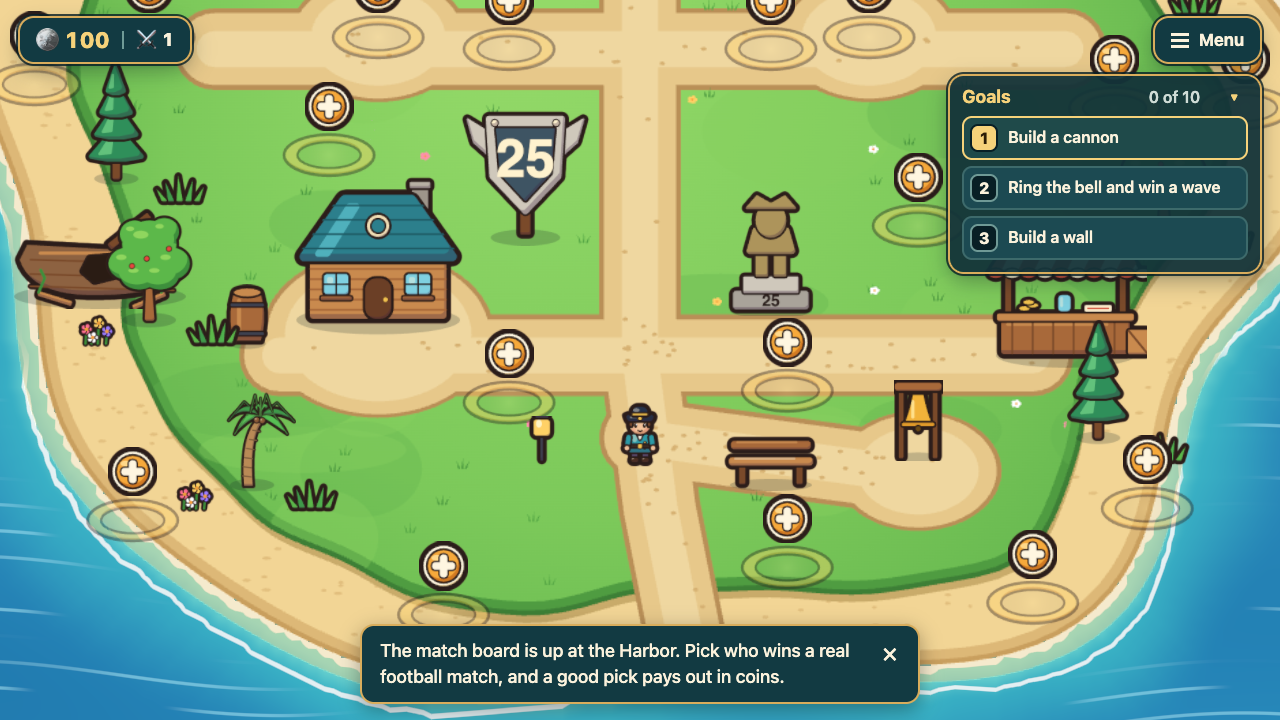
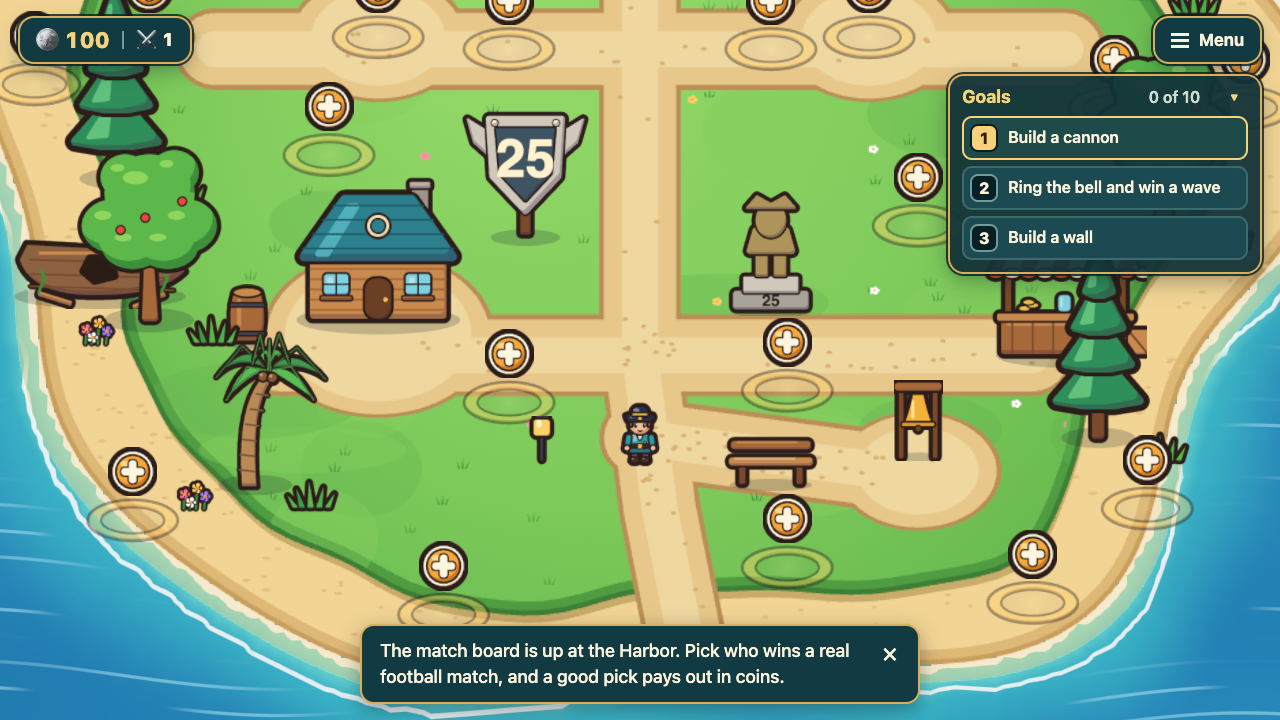
fix: grow T5 trees from their original size

diff --git a/frontend/tests/island/decorations.test.js b/frontend/tests/island/decorations.test.js
@@ -5,7 +5,7 @@ import {waveRank} from '../../src/art/milestones.js';
 
 const house = id => ({id, kind: 'house', built: true});
 it('shows the best beaten wave, and unlocks the statue exactly at 25', () => {
-  expect(decorationState()).toEqual({wave: 0, statue: false, treeScale: .6});
+  expect(decorationState()).toEqual({wave: 0, statue: false, treeScale: 1});
   expect(decorationState({wave: 24})).toMatchObject({wave: 24, statue: false});
   expect(decorationState({wave: 25})).toMatchObject({wave: 25, statue: true});
   expect(decorationState({wave: 100})).toMatchObject({wave: 100, statue: true});
@@ -14,18 +14,18 @@ it('does not confuse a lost attempt or next wave with the saved record', () => {
   expect(decorationState({wave: 12, nextWave: 10, survived: false})).toMatchObject({wave: 12});
 });
 it('uses three tree sizes, and shrinks again after a house is removed', () => {
-  expect(decorationState(null, [house('house_1')]).treeScale).toBe(.8);
-  expect(decorationState(null, [house('house_1'), house('house_2')]).treeScale).toBe(1);
-  expect(decorationState(null, [{...house('house_1'), built: false}, house('house_2')]).treeScale).toBe(.8);
-  expect(decorationState(null, [{kind: 'cannon', built: true}]).treeScale).toBe(.6);
+  expect(decorationState(null, [house('house_1')]).treeScale).toBe(1.1);
+  expect(decorationState(null, [house('house_1'), house('house_2')]).treeScale).toBe(1.2);
+  expect(decorationState(null, [{...house('house_1'), built: false}, house('house_2')]).treeScale).toBe(1.1);
+  expect(decorationState(null, [{kind: 'cannon', built: true}]).treeScale).toBe(1);
 });
 it('resets from a developed island to a new island without keeping another island’s milestones', () => {
   decorationState({wave: 30}, [house('house_1'), house('house_2')]);
-  expect(decorationState({wave: 1}, [])).toEqual({wave: 1, statue: false, treeScale: .6});
+  expect(decorationState({wave: 1}, [])).toEqual({wave: 1, statue: false, treeScale: 1});
 });
 it('treats missing or malformed records as zero and ignores duplicate house ids', () => {
   for (const wave of [-1, 1.5, '25', NaN, Infinity]) expect(decorationState({wave}).wave).toBe(0);
-  expect(decorationState(null, [house('house_1'), house('house_1')]).treeScale).toBe(.8);
+  expect(decorationState(null, [house('house_1'), house('house_1')]).treeScale).toBe(1.1);
 });
 
 it('changes the badge rank at every ten-wave milestone, with a separate unranked start', () => {

diff --git a/frontend/tests/island/decorations-dom.test.js b/frontend/tests/island/decorations-dom.test.js
@@ -57,7 +57,7 @@ it('updates the viewed island, reuses unchanged art and releases its own resourc
     return {first, reused, replaced, milestone, fresh, hidden, freed, restored: tree.scale.x,
       children: place.group.children.length, colliders: place.colliders};
   });
-  expect(result).toEqual({first: {wave: 24, statue: false, tree: 1.6}, reused: true, replaced: 1,
-    milestone: {wave: 25, statue: true, tree: 2}, fresh: {wave: 1, statue: false, tree: 1.2},
+  expect(result).toEqual({first: {wave: 24, statue: false, tree: 2.2}, reused: true, replaced: 1,
+    milestone: {wave: 25, statue: true, tree: 2.4}, fresh: {wave: 1, statue: false, tree: 2},
     hidden: true, freed: 7, restored: 2, children: 1, colliders: [{x: 1, z: 2, radius: .48}]});
 });

diff --git a/frontend/src/island/decorations.js b/frontend/src/island/decorations.js
@@ -8,7 +8,7 @@ export function decorationState(campaign = null, spots = []) {
   const wave = Number.isSafeInteger(campaign?.wave) && campaign.wave >= 0 ? campaign.wave : 0;
   const houses = new Set(spots.filter(spot => spot?.built === true && spot.kind === 'house'
     && ['house_1', 'house_2'].includes(spot.id)).map(spot => spot.id));
-  return {wave, statue: wave >= 25, treeScale: [.6, .8, 1][houses.size]};
+  return {wave, statue: wave >= 25, treeScale: [1, 1.1, 1.2][houses.size]};
 }
 
 function milestone(root, name, width, height, x, z) {

diff --git a/docs/handoff/T5-island-decoration.md b/docs/handoff/T5-island-decoration.md
@@ -17,8 +17,8 @@ The old rectangular artwork and obsolete after screenshots are replaced, not shi
 as another design. The [spec](../../specs/T5-island-decoration.md) records the approved ladder.
 The number follows each newly survived highest wave; the artwork changes at ten-wave
 milestones. A lost attempt or replay of a lower wave does not increase the record.
-A statue appears after wave 25; existing trees have three sizes for zero, one or two
-built houses. No public API, database, money, combat, collision or dependency changes.
+A statue appears after wave 25; existing trees keep their original size with zero houses, then grow to 110% and
+120% with one and two houses. Removing houses returns them toward the original size. No public API, database, money, combat, collision or dependency changes.
 
 ## Evidence
 
@@ -26,6 +26,14 @@ built houses. No public API, database, money, combat, collision or dependency ch
 |---|---|---|
 | 1280 × 720 | [Before](../evidence/t5/before-1280.png) | [After](../evidence/t5/after-1280.png) |
 | 375 × 812 | [Before](../evidence/t5/before-375.png) | [After](../evidence/t5/after-375.png) |
+
+[One house, desktop](../evidence/t5/after-1-house-1280.png) ·
+[Two houses, desktop](../evidence/t5/after-2-house-1280.png) ·
+[One house, phone](../evidence/t5/after-1-house-375.png) ·
+[Two houses, phone](../evidence/t5/after-2-house-375.png).
+The zero-house after screenshots above keep the same tree size as the before images.
+All three house counts were captured on the same local island; the desktop images
+show the trees, while the phone view also checks the surrounding UI after building.
 
 [All twelve rank designs](../evidence/t5/ranks.png). The labels on this developer
 preview identify the ranks; the in-game shield shows only its number.
@@ -43,19 +51,21 @@ no package was added and the lockfile is unchanged.
 | Command | Exact result / evidence |
 |---|---|
 | `npm install` | `added 47 packages in 687ms` |
-| `npm test` (revised rank artwork) | `Test Files 236 passed (236)`; `Tests 2970 passed (2970)`; exit 0 |
-| `npm test -- tests/island/decorations.test.js tests/island/decorations-dom.test.js` (after adding the final win-event regression) | `Test Files 2 passed (2)`; `Tests 8 passed (8)`; exit 0 |
+| `npm test` (final rank artwork and tree correction) | `Test Files 236 passed (236)`; `Tests 2971 passed (2971)`; exit 0 |
 | `npm run build` | `Spoiler guard: 225 text files, 12 protected lines, no suspect elimination data.`; exit 0 |
 | `node scripts/report-budget.js --check` | exit 0; initial JavaScript 18,174 / 21,080 bytes; CSS 8,550 / 12,000 bytes |
 | `node scripts/text-lint/index.mjs` (repository root) | `Text lint: 3744 candidate strings in 411 source files; 0 errors, 8 report-only findings.`; the report-only findings are in unchanged files |
-| `node scripts/check-island-decorations.mjs` | `T5 after: captured 1280×720 and 375×812 at best wave 25.`; exit 0; also writes the rank preview |
+| `node scripts/check-island-decorations.mjs` | `T5 after: captured 1280×720 and 375×812 at best wave 25.`; exit 0; also writes the rank preview and all house stages at both viewports. `T5 house builds: tree scale 1.1 with one house, 1.2 with two houses.` |
 | `npm run test:a11y` | `"screens": 33`, `"failures": []`, `"errors": []`; exit 0 |
-| `SHOTS_DIR=/private/tmp/t5-demo-shots npm run test:demo` | 33 checks; `"errors": []`, `"external": []`; exit 0 |
+| `SHOTS_DIR=/private/tmp/t5-trees-demo-shots npm run test:demo` | 33 checks; `"errors": []`, `"external": []`; exit 0 |
 | `git diff --check` (repository root) | exit 0, no output |
+
+Tree correction tests first: four tests failed against the old 60% / 80% / 100% rule
+before it was replaced. The current expected rule keeps the original size and grows it.
 
 Tests-first evidence: the first rule-test run failed because `decorations.js` did
 not exist. The later rank test failed with `TypeError: waveRank is not a function`
-before the rank selector was added. The final focused tests cover every ten-wave
+before the rank selector was added. The T5 tests cover every ten-wave
 boundary, recorded win-event refreshes, statue 24/25, house growth/removal, invalid
 records, another island’s lower progress, texture reuse and exactly-once cleanup.
 
@@ -63,9 +73,8 @@ The first baseline run lacked browser/loopback permissions; a subsequent baselin
 run lacked CHROME_PATH. Neither is claimed as a passing baseline. The corrected full
 suite above passed with Chrome configured. The demo script initially tried to write
 to another teammate’s home directory; its existing SHOTS_DIR option fixed the run.
-An extra proposed actual-house-build capture was declined and is not claimed. The
-submitted script verifies the badge/statue in the full game; tree sizing is exercised
-in rule and browser component tests. Generated accessibility captures were moved
+The submitted game journey verifies actual local house builds at 100%, 110% and
+120% as well as the badge/statue. Generated accessibility captures were moved
 outside the checkout and original tracked captures restored, keeping this PR focused.
 
 ## Explain-back draft — Ianno must review and put this in his own words

diff --git a/docs/TEST-MAP.md b/docs/TEST-MAP.md
@@ -160,4 +160,4 @@ The rows that start with "v3" were written on Fri 13 Nov 2026 at `6c9ffb3`. Coun
 
 | What I built / why | Where and command | Covers | Misses |
 |---|---|---|---|
-| Number-only rank shield beside the cabin, statue at wave 25 and house-linked tree sizes; makes saved island progress visible | [Rule tests](../frontend/tests/island/decorations.test.js) and [browser component test](../frontend/tests/island/decorations-dom.test.js): `cd frontend && npm test -- tests/island/decorations.test.js tests/island/decorations-dom.test.js`; [game capture](../frontend/scripts/check-island-decorations.mjs): `cd frontend && node scripts/check-island-decorations.mjs` | Recorded win events update 21 → 22 → 29 → 30; each ten-wave rank boundary, 24/25 statue boundary, invalid records, house removal/duplicates, lower progress on another island, art reuse, cleanup and unchanged colliders; full local game wiring and 1280 × 720 / 375 × 812 screenshots with a fake API | Live Supabase progress and real visits, physical phones, actual competitive play balance; ornaments are drawn on Canvas rather than exposed as interactive controls |
+| Number-only rank shield beside the cabin, statue at wave 25 and tree sizes of 100% / 110% / 120%; makes saved island progress visible | [Rule tests](../frontend/tests/island/decorations.test.js) and [browser component test](../frontend/tests/island/decorations-dom.test.js): `cd frontend && npm test -- tests/island/decorations.test.js tests/island/decorations-dom.test.js`; [game capture](../frontend/scripts/check-island-decorations.mjs): `cd frontend && node scripts/check-island-decorations.mjs` | Recorded win events update 21 → 22 → 29 → 30; each ten-wave rank boundary, 24/25 statue boundary, invalid records, house removal/duplicates, actual local house builds grow trees from 100% to 110% to 120%, lower progress on another island, art reuse, cleanup and unchanged colliders; full local game wiring and 1280 × 720 / 375 × 812 screenshots with a fake API | Live Supabase progress and real visits, physical phones, actual competitive play balance; ornaments are drawn on Canvas rather than exposed as interactive controls |

diff --git a/docs/STATUS.md b/docs/STATUS.md
@@ -14,7 +14,7 @@ Never write keys, tokens, passwords or student numbers in this file. If two pull
 
 ## Right now
 
-**13 Nov, T5 / Ianno:** [PR #10](https://github.com/Nilsnova/The-Great-Plot-Twist/pull/10) adds a number-only rank shield above/right of the cabin, a wave-25 statue and three house-linked tree sizes. Original island-style drawings; existing progress only. Verification is recorded in [the T5 handover](handoff/T5-island-decoration.md); explain-back and independent human review remain.
+**13 Nov, T5 / Ianno:** [PR #10](https://github.com/Nilsnova/The-Great-Plot-Twist/pull/10) adds a number-only rank shield above/right of the cabin, a wave-25 statue and trees at 100%, 110% or 120% size for zero, one or two houses. Original island-style drawings; existing progress only. Verification is recorded in [the T5 handover](handoff/T5-island-decoration.md); explain-back and independent human review remain.
 
 **13 Nov, T26 / Ianno:** island Harbor weather entry implemented in [PR #8](https://github.com/Nilsnova/The-Great-Plot-Twist/pull/8). Reuses the existing card; [local evidence and limits](handoff/T26-weather-board.md). Explain-back and human review pending.
 
@@ -514,6 +514,8 @@ Report:      Finish with: changed, verified, not verified, remaining, branch/PR.
 ```
 
 ## Log
+
+- **13 Nov 2026, T5 follow-up for Ianno:** kept the existing tree size with zero houses, then grew trees to 110% and 120% with one and two houses; corrected the earlier shrinking baseline and recaptured the house progression. [Evidence](handoff/T5-island-decoration.md).
 
 - **13 Nov 2026, Codex for Ianno Hollensteiner:** implemented T5 on `feat/t5-island-decoration`, [PR #10](https://github.com/Nilsnova/The-Great-Plot-Twist/pull/10), following Ianno’s revised rank-shield design and placement. [Evidence and limits](handoff/T5-island-decoration.md). Explain-back and human review pending.
 

diff --git a/frontend/ASSETS.md b/frontend/ASSETS.md
@@ -418,5 +418,6 @@ Original code-drawn rank shields and captain statue: [src/art/milestones.js](src
 using the existing [paint kit](src/art/paint.js). Design direction and placement:
 Ianno Hollensteiner; code drafted with Codex. No third-party images or fonts added.
 The number-only shield has twelve ranks from unranked to crowned, selected from
-the existing best wave. Existing oak, pine and birch art is reused at three sizes.
+the existing best wave. Existing oak, pine and birch art is reused at 100%, 110% and 120% of its original size
+for zero, one and two built houses; the starting island keeps its existing tree size.
 [Scope and ladder](../specs/T5-island-decoration.md); [preview](../docs/evidence/t5/ranks.png).

diff --git a/docs/WALKTHROUGH.md b/docs/WALKTHROUGH.md
@@ -1058,7 +1058,7 @@ A CI job that runs the SQL suites; a check that the live md5 equals the file; a 
 ## 29. Island milestones — Ianno Hollensteiner (T5)
 
 **What and where.** The island shows a number-only rank shield above and right of
-the cabin, a captain statue after wave 25, and trees at 60%, 80% or 100% size for
+the cabin, a captain statue after wave 25, and trees at 100%, 110% or 120% size for
 zero, one or two built houses. [decorations.js](../frontend/src/island/decorations.js)
 reads the viewed island’s existing campaign wave and spots.
 [world.js](../frontend/src/island/world.js) calls it whenever island state changes

diff --git a/specs/T5-island-decoration.md b/specs/T5-island-decoration.md
@@ -15,7 +15,8 @@
 
 Show the highest beaten wave on a number-only league shield beside the cabin,
 reveal a statue after wave 25, and
-grow decorative trees through three sizes for zero, one, or two built houses.
+grow decorative trees at 100%, 110% or 120% of their original size for zero, one,
+or two built houses. The starting island keeps its existing full-size trees.
 The shield follows the island being viewed, including a friend's island.
 Losses keep the recorded best wave. Removing a house reduces the tree size.
 These decorations change appearance only: no combat, money, collision or API rules.
